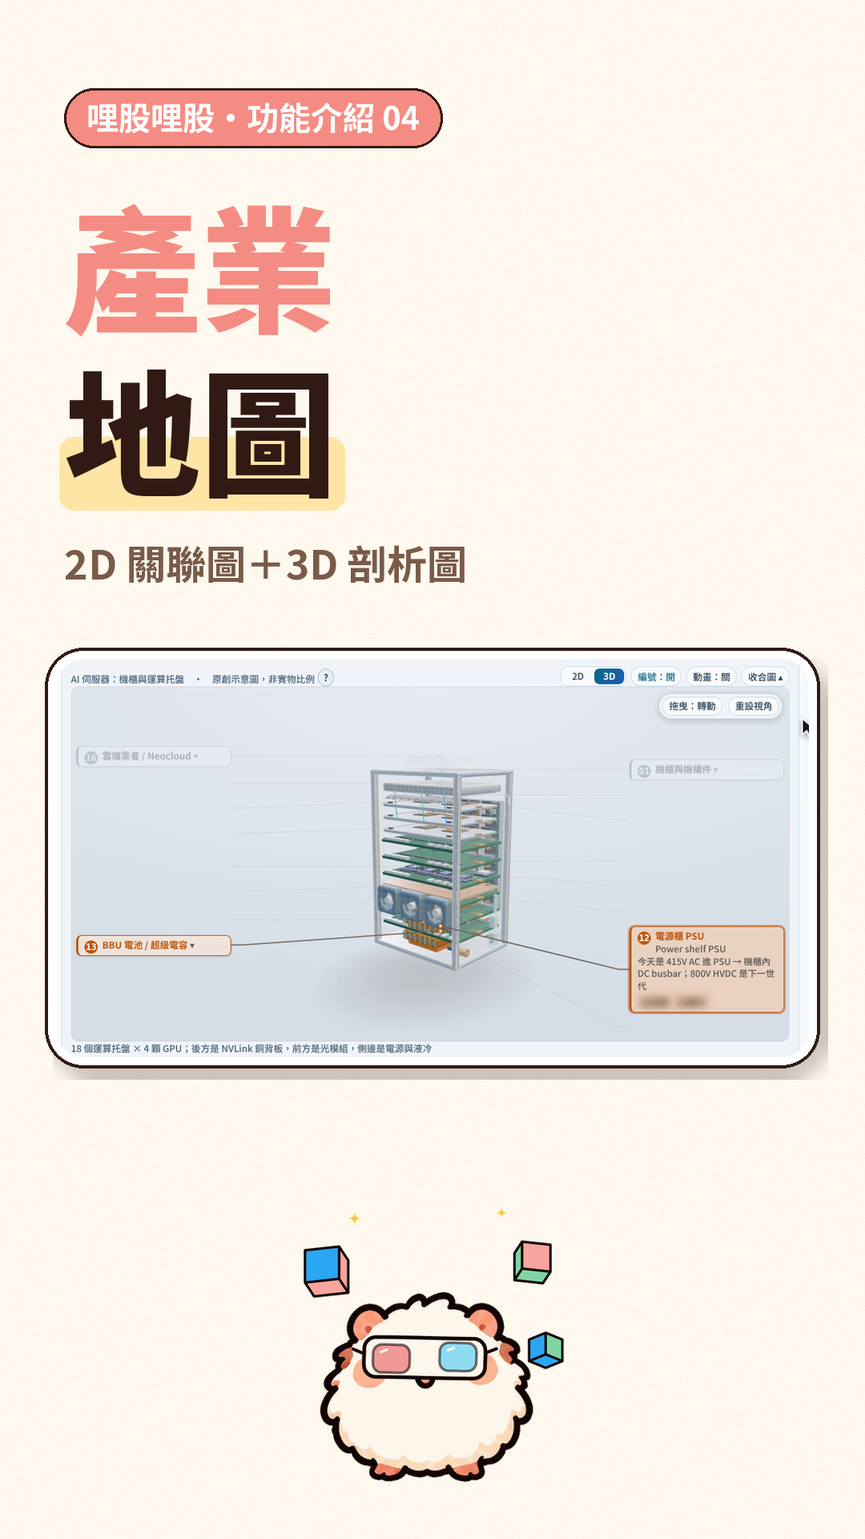
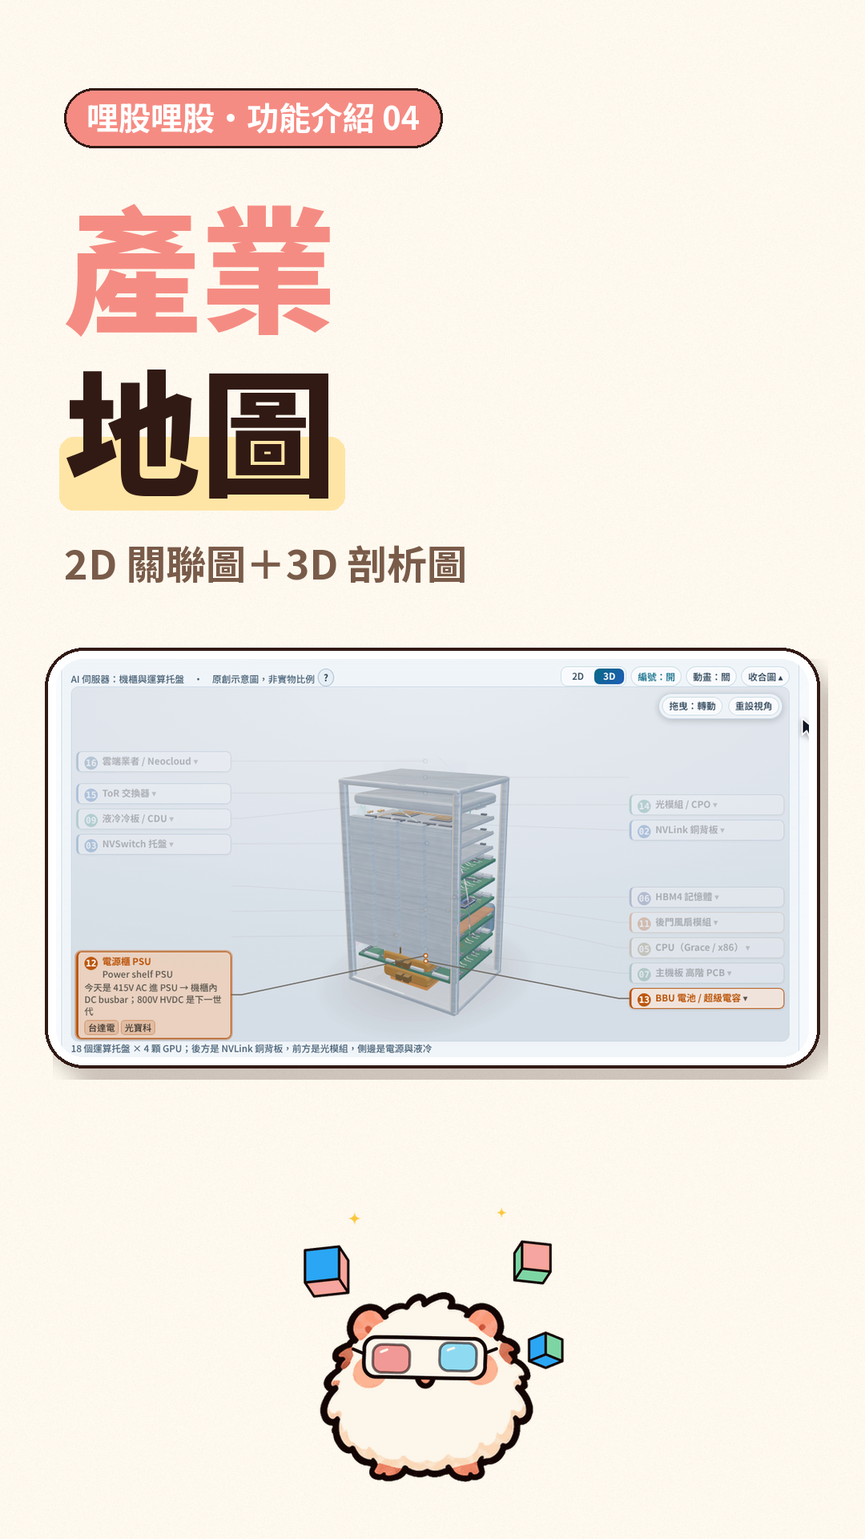
影片 04 v6、05 v4：游標改走避開文字的路徑、泡泡不淡入淡出、手機邊緣半截字隱藏
Claude-Session: https://claude.ai/code/session_01BcUKrYHkJGWWm6eHcrVxVX

diff --git a/docs/marketing/videos/feature_series/04_industry_map/capture_ind_v6.py b/docs/marketing/videos/feature_series/04_industry_map/capture_ind_v6.py
@@ -48,7 +48,8 @@ REC_CSS = ("#relTip,#relStick{display:none!important}"
            ".__vr{width:24px!important;height:24px!important;border-width:2px!important;background:transparent!important}"
            ".reltip{margin:18px 0 0 22px!important}"
            "#relSec *,#chainMap *{transition:none!important}"          # 環節展開瞬間完成（不經過「長高中」的版面，框緣不會在展開途中切到字）
-           ".lbl3d[data-hid],[data-edgehid]{visibility:hidden!important}")            # 被收起的 3D 標籤用屬性標記（網站每幀重設 style.visibility 蓋不掉屬性選擇器）
+           ".lbl3d[data-hid],[data-edgehid]{visibility:hidden!important}"
+           ".fxb-glow,.fxb-glow *{filter:none!important}")                # 剖析圖連線高亮的發光（SVG 濾鏡含高斯模糊）：整個關掉            # 被收起的 3D 標籤用屬性標記（網站每幀重設 style.visibility 蓋不掉屬性選擇器）
 BLUR_SEL = ""
 
 META_JS = r"""([blurSel, named]) => {
@@ -68,14 +69,16 @@ META_JS = r"""([blurSel, named]) => {
   while ((n = wk.nextNode()) && k < 6000) { k++; const t = n.nodeValue; if (!t || !t.trim()) continue; const e = n.parentElement; if (!e || e.closest('script,style')) continue;
     if (skip(e)) continue; const rg = document.createRange(); rg.selectNodeContents(n); const rs = rg.getClientRects();
     for (const r of rs) { if (r.width < 2 || r.height < 2) continue; if (r.bottom < 0 || r.top > vh || r.right < 0 || r.left > vw) continue; if (e.closest('svg') === null && !vis(e)) continue; { const cs = getComputedStyle(e); if (cs.visibility === 'hidden' || cs.display === 'none' || +cs.opacity < 0.05) continue; } txt.push([r.left, r.top, r.width, r.height]); } }
+  let cc = 0; { const cm = document.querySelector('#chainMap'); if (cm && cm.getClientRects().length) { const cr = cm.getBoundingClientRect();
+    for (const t of txt) { const r = { l: t[0], t: t[1], r: t[0] + t[2], b: t[1] + t[3] }; if (r.b < cr.top || r.t > cr.bottom) continue; if ((r.l < cr.left - 0.5 && r.r > cr.left + 0.5) || (r.l < cr.right - 0.5 && r.r > cr.right + 0.5)) cc++; } } }
   const fab = [...document.querySelectorAll('#supFab, .supfab, #bibiRing, .bibiring')].map(vis).filter(Boolean);
-  return { el, ov, lb, txt, fab, sy: Math.round(scrollY), bf }; }"""
+  return { el, ov, lb, txt, fab, sy: Math.round(scrollY), bf, cc }; }"""
 
 RESOLVE_JS = """() => { const L = [...document.querySelectorAll('.lbl3d')].filter(e => getComputedStyle(e).visibility !== 'hidden').map(e => ({ e, r: e.getBoundingClientRect() }));
   for (let i = 0; i < L.length; i++) for (let j = i + 1; j < L.length; j++) { const a = L[i].r, b = L[j].r;
     if (Math.min(a.right, b.right) + 2 > Math.max(a.left, b.left) && Math.min(a.bottom, b.bottom) + 2 > Math.max(a.top, b.top)) { const big = a.height >= b.height ? i : j; L[big].e.setAttribute('data-hid', '1'); } } }"""
 
-EDGE_JS = """([x0, y0, x1, y1]) => { document.querySelectorAll('[data-edgehid]').forEach(e => e.removeAttribute('data-edgehid'));
+EDGE_JS = """([x0, y0, x1, y1]) => { document.querySelectorAll('[data-edgehid="1"]').forEach(e => e.removeAttribute('data-edgehid'));
   const root = document.querySelector('#v-industry') || document.body; const wk = document.createTreeWalker(root, NodeFilter.SHOW_TEXT); let n, k = 0, hid = 0;
   while ((n = wk.nextNode()) && k < 8000) { k++; if (!n.nodeValue || !n.nodeValue.trim()) continue; const e = n.parentElement; if (!e || e.closest('script,style')) continue;
     const rg = document.createRange(); rg.selectNodeContents(n);
@@ -83,6 +86,24 @@ EDGE_JS = """([x0, y0, x1, y1]) => { document.querySelectorAll('[data-edgehid]')
       const inx = Math.min(r.right, x1) - Math.max(r.left, x0) > 0, iny = Math.min(r.bottom, y1) - Math.max(r.top, y0) > 0; if (!inx || !iny) continue;
       const cut = !(r.left >= x0 + 2.1 && r.right <= x1 - 2.1 && r.top >= y0 + 2.1 && r.bottom <= y1 - 2.1) && Math.min(r.right, x1) - Math.max(r.left, x0) > 0.5 && Math.min(r.bottom, y1) - Math.max(r.top, y0) > 0.5;   // 沒有完整落在「取景框內縮 2.6px」之內、卻有一部分探進取景框 → 隱藏
       if (cut) { e.setAttribute('data-edgehid', '1'); hid++; break; } } }
+  return hid; }"""
+
+EDGE_X_JS = """() => { document.querySelectorAll('[data-edgehid="1"]').forEach(e => e.removeAttribute('data-edgehid'));
+  const cm = document.querySelector('#chainMap'); if (!cm || !cm.getClientRects().length) return 0; const cr = cm.getBoundingClientRect(); let hid = 0, n, k = 0;
+  const wk = document.createTreeWalker(cm, NodeFilter.SHOW_TEXT);
+  while ((n = wk.nextNode()) && k < 6000) { k++; if (!n.nodeValue || !n.nodeValue.trim()) continue; const e = n.parentElement; if (!e) continue;
+    const rg = document.createRange(); rg.selectNodeContents(n);
+    for (const r of rg.getClientRects()) { if (r.width < 2 || r.height < 2 || r.bottom < cr.top || r.top > cr.bottom) continue;
+      if ((r.left < cr.left + 0.5 && r.right > cr.left + 0.5) || (r.left < cr.right - 0.5 && r.right > cr.right - 0.5) || (r.right <= cr.left + 0.5 && r.right > cr.left - 40)) { e.setAttribute('data-edgehid', '1'); hid++; break; } } }
+  return hid; }"""
+
+EDGE_V_JS = """() => { document.querySelectorAll('[data-edgehid="v"]').forEach(e => e.removeAttribute('data-edgehid'));
+  const wk = document.createTreeWalker(document.body, NodeFilter.SHOW_TEXT); let n, k = 0, hid = 0; const vw = innerWidth, vh = innerHeight;
+  while ((n = wk.nextNode()) && k < 9000) { k++; if (!n.nodeValue || !n.nodeValue.trim()) continue; const e = n.parentElement; if (!e || e.closest('script,style,#mSheet,header.topbar,#m4Drawer,.m4drawer,canvas')) continue;
+    const cs = getComputedStyle(e); if (cs.visibility === 'hidden' || cs.display === 'none' || +cs.opacity < 0.05) continue;
+    const rg = document.createRange(); rg.selectNodeContents(n);
+    for (const r of rg.getClientRects()) { if (r.width < 2 || r.height < 2 || r.bottom < 56 || r.top > vh) continue;
+      if ((r.left < 3 && r.right > 3) || (r.left < vw - 3 && r.right > vw - 3) || (r.top < vh - 1 && r.bottom > vh - 1)) { e.setAttribute('data-edgehid', 'v'); hid++; break; } } }
   return hid; }"""
 
 NAMED = {
@@ -137,9 +158,20 @@ class Rec(F.Rec):
         self.pg.evaluate(C.ANIM_JS, ms)
         if self.n % 6 == 0:
             self._watch()
-        if self.act.stage == 5 and not self.act.mob:
-            try:   # 關聯圖：被畫面框邊切過一半的字（框邊 = 取景 CROP1 內縮 2.6px）整段先隱藏，不讓半截字入鏡
-                self.edge_hid = self.pg.evaluate(EDGE_JS, [CROP1[0], CROP1[1], CROP1[0] + CROP1[2], CROP1[1] + CROP1[3]])
+        if self.act.stage >= 1 and not self.act.mob:
+            try:   # 被畫面框邊切過一半的字整段先隱藏，不讓半截字入鏡（引導段框＝整個視窗 CROP0，剖析圖／3D／關聯圖段框＝推近後的 CROP1）
+                cr_ = CROP0 if self.act.stage < 3 else CROP1
+                self.edge_hid = self.pg.evaluate(EDGE_JS, [cr_[0], cr_[1], cr_[0] + cr_[2], cr_[1] + cr_[3]])
+            except Exception:  # noqa: BLE001
+                pass
+        if self.act.stage >= 1 and self.act.mob:
+            try:   # 手機：畫面左右緣、底緣切過一半的字整段隱藏（不讓半截字入鏡）
+                self.pg.evaluate(EDGE_V_JS)
+            except Exception:  # noqa: BLE001
+                pass
+        if self.act.stage == 5 and self.act.mob:
+            try:   # 手機關聯圖：被橫向捲動容器左右邊切過一半的字整段隱藏（只剩節點外框的圓角邊，不留半截字）
+                self.pg.evaluate(EDGE_X_JS)
             except Exception:  # noqa: BLE001
                 pass
         if self.act.stage == 4 and not self.act.mob:
@@ -218,6 +250,24 @@ class A(I.A):
 
     def occ_now(self):
         return None
+
+    def move(self, x, y, ms=600):
+        """桌機：游標走「避開所有文字外框」的路徑（外框＝畫面上看得到的文字＋3D 標籤）；找不到路才直走。手機照舊。"""
+        if self.mob or ms < 120 or abs(x - self.x) + abs(y - self.y) < 40:
+            return super().move(x, y, ms)
+        try:
+            m = self.pg.evaluate(META_JS, [BLUR_SEL, {}])
+            rects = [tuple(z) for z in m["txt"]] + [tuple(z[1:]) for z in m["lb"]]
+        except Exception:  # noqa: BLE001
+            rects = []
+        path = BF.safe_path(rects, (self.x, self.y), (x, y), W=VP["width"], H=VP["height"])
+        if not path or len(path) < 2:
+            return super().move(x, y, ms)
+        tot = sum(math.hypot(path[i + 1][0] - path[i][0], path[i + 1][1] - path[i][1]) for i in range(len(path) - 1)) or 1.0
+        for i in range(len(path) - 1):
+            seg = math.hypot(path[i + 1][0] - path[i][0], path[i + 1][1] - path[i][1])
+            last = i == len(path) - 2
+            super().move(x if last else path[i + 1][0], y if last else path[i + 1][1], max(40, int(ms * seg / tot)))
 
     def go(self, x, y, ms=420):
         self.move(x, y, ms)
@@ -338,7 +388,7 @@ def run(a, pg, start, snap=False):
     I.anim_off(pg)
     pg.evaluate("() => { location.hash = '#overview'; scrollTo(0, 0); }")
     pg.wait_for_timeout(3500)
-    a.x, a.y = 900, 24     # 開場游標停在頂欄空白處
+    a.x, a.y = 600, 24     # 開場游標停在頂欄空白處（導覽鈕與日期之間，不壓字）
     start()
     # 1 需求：為什麼要看這個功能（2 則泡泡、約 3 秒）
     a.set_stage(1, "需求")
@@ -495,7 +545,7 @@ def run_m(a, pg, start, snap=False):
     add_css(pg, "#mSheet{box-shadow:none!important;border-top:2px solid #cbd5e1!important}")
     pg.evaluate("() => { const s = document.createElement('style'); s.id = '__hidemap'; s.textContent = '#chainMap{visibility:hidden!important}'; document.head.appendChild(s); }")   # 底部面板開著時，面板上緣不留被切掉的關聯圖文字
     a.set_stage(3, "剖析圖")
-    a.say("點編號，看零件說明", "magic_frame", ("dg",))
+    a.say("點編號，看零件說明", "spotlight", ("dg",))
     a.scroll(to_y=pg.evaluate("() => document.querySelector('#dg3d').getBoundingClientRect().top + scrollY") - 60, ms=650)
     a.snap("m3a")
     a.click_now('#dgBody .mnum[data-no="05"]', "編號 05 板上供電", ms=120, pause=80)
@@ -538,7 +588,8 @@ def run_m(a, pg, start, snap=False):
     a.wait(500)
     pg.evaluate("() => { const s = document.getElementById('__hidemap'); if (s) s.remove(); }")
     a.say("點環節，看上下游與成分公司", "talk_explain_v2", ("seg_thermal", "seg_power", "seg_assembly"))
-    pg.evaluate("""() => { const m = document.querySelector('#chainMap'); const t = document.querySelector('#relSec .segbox[data-seg="thermal"]'); m.scrollLeft += t.getBoundingClientRect().left - 42; }""")
+    pg.evaluate("""() => { const m = document.querySelector('#chainMap'); const t = document.querySelector('#relSec .segbox[data-seg="thermal"]'); m.style.scrollBehavior = 'auto'; m.scrollLeft += t.getBoundingClientRect().left - (m.getBoundingClientRect().left + 6); }""")
+    a.wait(150)
     a.scroll(to_y=pg.evaluate("() => document.querySelector('#chainMap').getBoundingClientRect().top + scrollY") - 70, ms=700)
     a.snap("m5a")
     CM = (0, 56, 540, 808)

diff --git a/docs/marketing/videos/feature_series/05_fund_flow/capture_flow.py b/docs/marketing/videos/feature_series/05_fund_flow/capture_flow.py
@@ -17,6 +17,7 @@ from __future__ import annotations
 import argparse
 import datetime as _dt
 import json
+import math
 import os
 import shutil
 import subprocess
@@ -36,11 +37,11 @@ from flowlib import C  # noqa: E402
 SCR = Path(os.environ.get("FEAT_SCR", "/tmp/claude-0/-home-user-tw-rotation/3d7a42eb-0e07-50fa-8c50-cf31c62d682f/scratchpad/feat05v3"))
 FPS = 30
 CFG = {
-    "d": dict(viewport={"width": 1280, "height": 620}, device_scale_factor=2),
+    "d": dict(viewport={"width": 1280, "height": 720}, device_scale_factor=2),
     "m": dict(viewport={"width": 540, "height": 880}, device_scale_factor=2.5, is_mobile=True, has_touch=True),
 }
 # 網站畫面框（css，視窗座標）：網頁＝整個視窗寬、從頂欄下緣到卡片底；手機＝視窗寬、頂欄起 624 高（只往下捲）
-CROP = {"d": (0, 52, 1072, 568), "m": (0, 0, 540, 864)}
+CROP = {"d": (0, 0, 1280, 678.4), "m": (0, 0, 540, 864)}   # 網頁：整個視窗入鏡（左側選單與右側卡片都不被框邊切到），進輪動頁後才單向推近
 
 # 錄影專用：客服鈕移出畫面下緣（不入鏡）；細圈漣漪（只畫圈、不上色，不蓋字）
 REC_CSS = (".rotdd[data-dd=chain] .ddpanel{flex-direction:row!important;flex-wrap:nowrap;width:max-content!important;max-width:582px!important;max-height:none!important;gap:1px}"
@@ -74,8 +75,13 @@ META_JS = r"""() => {
       const l = Math.max(b.left, b.x + r.x), tp = Math.max(b.top, b.y + r.y), rr = Math.min(b.right, b.x + r.x + r.width), bb = Math.min(b.bottom, b.y + r.y + r.height);
       if (rr - l < 1 || bb - tp < 1) return; zt.push([nm === 'clock' ? 0 : 1, l, tp, rr - l, bb - tp]); }); }
   document.querySelectorAll('#rotClock .rotquads > *').forEach(e => { const r = vis(e); if (r) zt.push([0, ...r]); });
+  const txt = []; { const wk = document.createTreeWalker(document.body, NodeFilter.SHOW_TEXT); let n, k = 0;
+    while ((n = wk.nextNode()) && k < 9000) { k++; if (!n.nodeValue || !n.nodeValue.trim()) continue; const e = n.parentElement; if (!e || e.closest('script,style,canvas')) continue;
+      const cs = getComputedStyle(e); if (cs.visibility === 'hidden' || cs.display === 'none' || +cs.opacity < 0.05) continue;
+      const rg = document.createRange(); rg.selectNodeContents(n);
+      for (const r of rg.getClientRects()) { if (r.width < 2 || r.height < 2) continue; if (r.bottom < 0 || r.top > innerHeight || r.right < 0 || r.left > innerWidth) continue; txt.push([r.left, r.top, r.width, r.height]); } } }
   const fab = [...document.querySelectorAll('#supFab, .supfab, #bibiRing, .bibiring')].map(vis).filter(Boolean);
-  return { ov, el, zt, fab, sy: Math.round(scrollY), bf }; }"""
+  return { ov, el, zt, fab, sy: Math.round(scrollY), bf, txt }; }"""
 
 
 class Rec(F.Rec):
@@ -129,7 +135,7 @@ class Rec(F.Rec):
 
 
 class A(F.A):
-    PARK_D = (770, 192)   # 左窗格「▶」右邊、輪盤上緣之上的空白處（不在圖上、不蓋字）
+    PARK_D = (790, 148)   # 篩選列右側、輪盤上方的空白處（離排行標籤欄 100px 以上；不在圖上、不蓋字、不會跳圖表提示框）
 
     def __init__(self, pg, mob, vw, vh):
         super().__init__(pg, mob, vw, vh)
@@ -178,10 +184,31 @@ class A(F.A):
         if not self.mob and (dx or dy):
             self.move(x + dx, y + dy, 220)
 
+    def move(self, x, y, ms=600):
+        """桌機：游標一律走「避開所有文字外框」的路徑（外框＝網站文字＋圖表標籤）；找不到路才直走。手機照舊。"""
+        if self.mob or ms < 120 or abs(x - self.x) + abs(y - self.y) < 40:
+            return F.A.move(self, x, y, ms)
+        try:
+            m = self.pg.evaluate(META_JS)
+            rects = [tuple(z) for z in m["txt"]] + [tuple(z[1:]) for z in m["zt"]]
+        except Exception:  # noqa: BLE001
+            rects = []
+        path = safe_path(rects, (self.x, self.y), (x, y))
+        if not path or len(path) < 2:
+            return F.A.move(self, x, y, ms)
+        tot = sum(math.hypot(path[i + 1][0] - path[i][0], path[i + 1][1] - path[i][1]) for i in range(len(path) - 1)) or 1.0
+        for i in range(len(path) - 1):
+            seg = math.hypot(path[i + 1][0] - path[i][0], path[i + 1][1] - path[i][1])
+            last = i == len(path) - 2
+            F.A.move(self, x if last else path[i + 1][0], y if last else path[i + 1][1], max(40, int(ms * seg / tot)))
+
     def away(self, ms=260):
         """游標移到空白處（桌機）：圖表提示框消失用。"""
         if not self.mob:
             self.move(*self.PARK_D, ms)
+
+
+safe_path = BF.safe_path
 
 
 def is_flow_sub(pg):
@@ -199,6 +226,8 @@ def pick_chain(a, pg, c, lab):
     a.wait(260)
     row = pg.evaluate(C.RECT_JS, f'{F.CDD} .ddopt[data-c="{c}"]')
     a.off_click(row[0] + row[2] * 0.5, row[1] + row[3] - 5, lab, f'{F.CDD} .ddopt[data-c="{c}"]', dx=0, dy=0)   # 點完不再逗留（清單一秒內收掉）
+    if not a.mob:
+        a.away(200)   # 先把游標移到右上角空白處：收清單期間游標不停在原清單列（那裡底下是「顯示軌跡／腳印」的字）
     # 網站選完產業鏈會自動打開族群清單 → 立刻關掉（等同點空白處），不讓它蓋住輪盤
     quiet = 0
     for _ in range(30):   # 族群清單會晚幾格才自動打開 → 連續 12 格都沒有面板才算收乾淨
@@ -212,7 +241,7 @@ def pick_chain(a, pg, c, lab):
                 break
     if pg.evaluate("() => document.querySelectorAll('.rotdd .ddpanel:not([hidden])').length"):
         a.note("⚠ 族群清單沒收起")
-    a.move(a.x + 40, a.y - 8, 150) if not a.mob else None   # 往右（不往下）：游標矩形不掃過輪盤上緣的標籤文字
+    a.away(220)   # 游標移到右上角空白處（不停在任何文字上）
 
 
 def run_d(pg, a, start):
@@ -256,10 +285,8 @@ def run_d(pg, a, start):
     a.say("拉桿換天數，兩圖同步變", "clock", ("slider", "clock", "rank"))
     for v in (5, 10, 30):
         F.slider_click(a, "#rotBack input", v, f"拉桿：{v} 天前")
-        a.move(a.x + 40, a.y - 30, 200)   # 往右上（遠離輪盤標籤）
-        a.wait(300)
-        a.away(260)
-        a.wait(900)
+        a.away(300)    # 點完立刻離開（游標不在拉桿下方的「顯示軌跡」字上停留）
+        a.wait(1100)
     a.settle()
     # 6 收尾
     a.set_stage(6, "一頁看懂")
@@ -370,6 +397,7 @@ def main():
             ctx.clock.install(time=_dt.datetime(day.year, day.month, day.day, 14, 30, tzinfo=tpe))   # 錄影時鐘固定台北白天（亮色主題）
             F.route_fonts(ctx)
             ctx.add_init_script(F.FONT_JS)
+            ctx.add_init_script("(() => { const patch = () => { const E = window.echarts; if (!E || E.__np) return; const oi = E.init; E.init = function (...a) { const c = oi.apply(this, a); const so = c.setOption; c.setOption = function (o, ...r) { try { if (o && typeof o === 'object' && !Array.isArray(o)) { o.animation = false; o.animationDuration = 0; o.animationDurationUpdate = 0; } } catch (e) {} return so.call(this, o, ...r); }; return c; }; E.__np = 1; }; setInterval(patch, 30); })();")   # 排行長條圖換資料時不做轉場動畫：標籤不會在換資料途中互相疊到
             ctx.add_init_script(C.PRESET)
             ctx.add_init_script(C.HIDE_B_JS)
             ctx.add_init_script(BF.INIT_JS)   # 全片不准有任何模糊（10-22）：不再模糊個股／公司，並關掉網站自己的毛玻璃

diff --git a/docs/marketing/videos/feature_series/05_fund_flow/render_flow.py b/docs/marketing/videos/feature_series/05_fund_flow/render_flow.py
@@ -28,6 +28,17 @@ HERE = Path(__file__).resolve().parent
 sys.path.insert(0, str(HERE))
 import renderlib_v2 as R  # noqa: E402
 
+_bubble_at0 = R.bubble_at
+
+
+def _bubble_at_solid(bubbles, t):
+    """泡泡不淡入淡出（10-22 全片每個字都要清楚看見）：出現就是完全不透明、換句直接切換。"""
+    b, a_in, a_out = _bubble_at0(bubbles, t)
+    return (b, 1.0, 1.0) if b is not None else (b, a_in, a_out)
+
+
+R.bubble_at = _bubble_at_solid
+
 SCR = Path(os.environ.get("FEAT_SCR", "/tmp/claude-0/-home-user-tw-rotation/3d7a42eb-0e07-50fa-8c50-cf31c62d682f/scratchpad/feat05v3"))
 RAW = SCR / "raw"
 FPS = 30
@@ -156,7 +167,7 @@ def render(dev, only=None):
         hmax = float(np.percentile([f_["el"]["card"][3] for f_ in fm[int(t3 * FPS):] if "card" in f_["el"]] or [card[3]], 97))
         Hc = hmax + 2 * mg
         Wc = Hc * o.asp
-        tgt = (card[0] + card[2] / 2 - Wc / 2, card[1] - mg, Wc, Hc)
+        tgt = (card[0] - mg, card[1] - mg, Wc, Hc)   # 左緣貼著卡片（側欄的字不入鏡）；右邊多出來的幾 px 是頁面空白
         zoom = (t3 - 0.1, 0.7, tgt)
 
     def crop_at(t):
@@ -279,6 +290,16 @@ def render(dev, only=None):
                     if rect_int(z[1:], cr) > 0:
                         strict_rows.append(f"| {t:6.2f} | 游標蓋住{'輪盤' if z[0] == 0 else '排行'}標籤 |")
                         break
+            if dev == 'd' and m.get("cur") and m.get("txt") and not (zoom is not None and zoom[0] <= t <= zoom[0] + zoom[1] + 0.05):   # 游標壓到任何文字（不只圖表標籤）；游標滑向被點目標、點下去的那一刻（本來就在目標上）不算
+                near_click = any(-0.9 <= t - c['t'] <= 0.3 for c in meta['clicks'])
+                cxy = m["cur"]
+                cr_ = (cxy[0] - 3, cxy[1] - 2, 26, 30)
+                still = all(math.hypot(fm[min(N0 - 1, max(0, k + dk))]["cur"][0] - cxy[0], fm[min(N0 - 1, max(0, k + dk))]["cur"][1] - cxy[1]) < 3 for dk in (-2, 2) if fm[min(N0 - 1, max(0, k + dk))].get("cur"))   # 只算「游標停著」壓到字；移動途中掃過（單格）不算
+                if not near_click and still and rect_int(cr_, crop_css) > 0:
+                    for z in m["txt"]:
+                        if rect_int(z, cr_) > 0:
+                            strict_rows.append(f"| {t:6.2f} | 游標蓋住文字 {[round(v) for v in z]} |")
+                            break
             in_push = zoom is not None and zoom[0] <= t <= zoom[0] + zoom[1] + 0.05   # 單向推近的移動中（約 0.75 秒），不算切字／裁切
             if in_push:
                 push_frames += 1
@@ -290,6 +311,11 @@ def render(dev, only=None):
                     zy0, zy1 = z[2], z[2] + z[4]
                     if (zy0 < t_top - 0.5 and zy1 > t_top + 0.5) or (zy0 < t_bot - 0.5 and zy1 > t_bot + 0.5):
                         slice_rows.append(f"| {t:6.2f} | 標籤被畫面框上下緣切過一半 y={zy0:.0f}-{zy1:.0f} |")
+                        break
+            if not in_push and stg >= 3 and not moving and dev == 'd':   # 網頁：畫面上任何一段文字（不只輪盤／排行標籤）被畫面框邊切到 → 記一筆
+                for z in m.get("txt", []):
+                    if rect_int(z, crop_css) > 0 and not contained(crop_in, z, 0.5) and min(z[0] + z[2], crop_css[0] + crop_css[2]) - max(z[0], crop_css[0]) >= 1.5 and min(z[1] + z[3], crop_css[1] + crop_css[3]) - max(z[1], crop_css[1]) >= 1.5:
+                        slice_rows.append(f"| {t:6.2f} | 文字被畫面框邊切到 {[round(v) for v in z]} |")
                         break
             chart_focus = (not in_push) and any(f in ('clock', 'rank') for f in (bub['focus'] if bub else []))
             want = {0 if f == 'clock' else 1 for f in (bub['focus'] if bub else []) if f in ('clock', 'rank')}

diff --git a/docs/marketing/videos/feature_series/04_industry_map/blurfree.py b/docs/marketing/videos/feature_series/04_industry_map/blurfree.py
@@ -33,3 +33,61 @@ INIT_JS = r"""
   document.readyState === 'loading' ? document.addEventListener('DOMContentLoaded', go) : go();
 })();
 """
+
+
+import math  # noqa: E402
+
+
+def safe_path(rects, p0, p1, cell=6, W=1280, H=680):
+    """格點最短路徑：游標矩形 (x-3,y-2,26,30) 不與任何外框相交；起點、終點即使在字上也放行。回傳拐點（已簡化）。"""
+    import heapq
+    gx, gy = W // cell, H // cell
+
+    def blocked(cx, cy):
+        x, y = cx * cell, cy * cell
+        for (rx, ry, rw, rh) in rects:
+            if x - 3 < rx + rw + 1 and x + 23 > rx - 1 and y - 2 < ry + rh + 1 and y + 28 > ry - 1:
+                return True
+        return False
+    s = (int(p0[0] // cell), int(p0[1] // cell))
+    g = (int(p1[0] // cell), int(p1[1] // cell))
+    s = (max(0, min(gx - 1, s[0])), max(0, min(gy - 1, s[1])))
+    g = (max(0, min(gx - 1, g[0])), max(0, min(gy - 1, g[1])))
+    dist = {s: 0.0}
+    prev = {}
+    pq = [(0.0, s)]
+    while pq:
+        d, u = heapq.heappop(pq)
+        if u == g:
+            break
+        if d > dist.get(u, 1e18):
+            continue
+        for dx in (-1, 0, 1):
+            for dy in (-1, 0, 1):
+                if not dx and not dy:
+                    continue
+                v = (u[0] + dx, u[1] + dy)
+                if not (0 <= v[0] < gx and 0 <= v[1] < gy):
+                    continue
+                if v != g and max(abs(v[0] - s[0]), abs(v[1] - s[1])) > 3 and blocked(*v):   # 起點附近 3 格放行（游標本來就壓在字邊上時要能離開）
+                    continue
+                nd = d + math.hypot(dx, dy) + (0.0 if u == s else 0.0)
+                if nd < dist.get(v, 1e18):
+                    dist[v] = nd
+                    prev[v] = u
+                    heapq.heappush(pq, (nd, v))
+    if g not in prev and g != s:
+        return None
+    pts = [g]
+    while pts[-1] != s:
+        pts.append(prev[pts[-1]])
+    pts.reverse()
+    pts = [(c[0] * cell, c[1] * cell) for c in pts]
+    # 簡化：去掉共線點
+    out = [pts[0]]
+    for i in range(1, len(pts) - 1):
+        a_, b_, c_ = out[-1], pts[i], pts[i + 1]
+        if (b_[0] - a_[0]) * (c_[1] - b_[1]) != (b_[1] - a_[1]) * (c_[0] - b_[0]):
+            out.append(b_)
+    out.append(pts[-1])
+    return out[1:] and out
